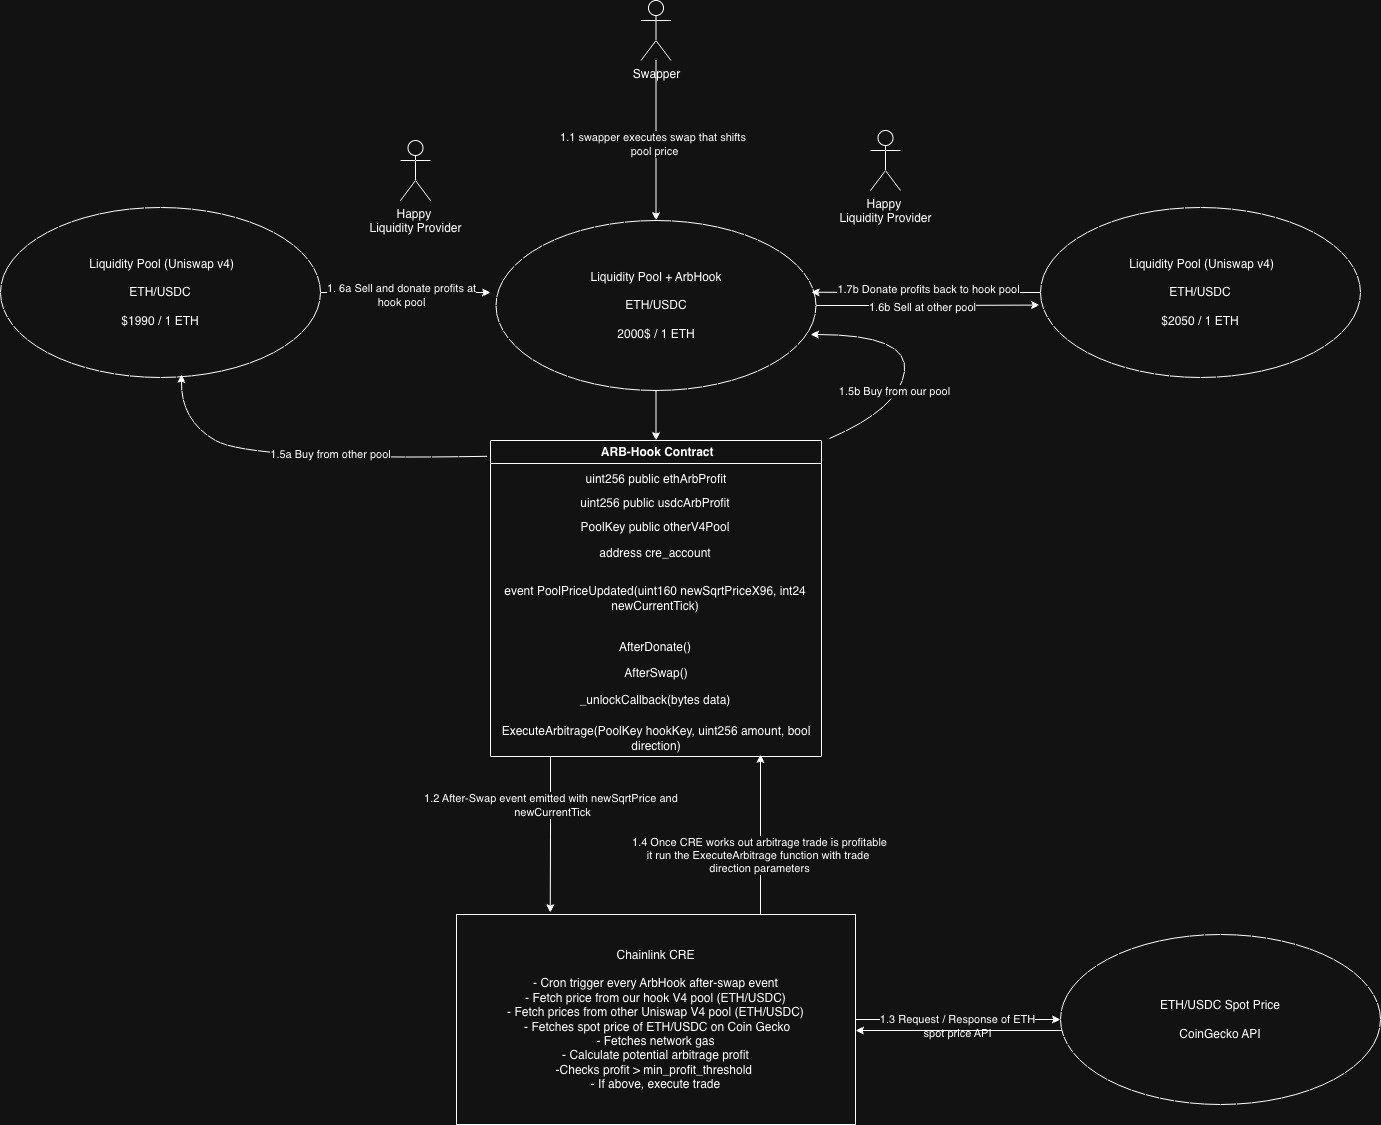
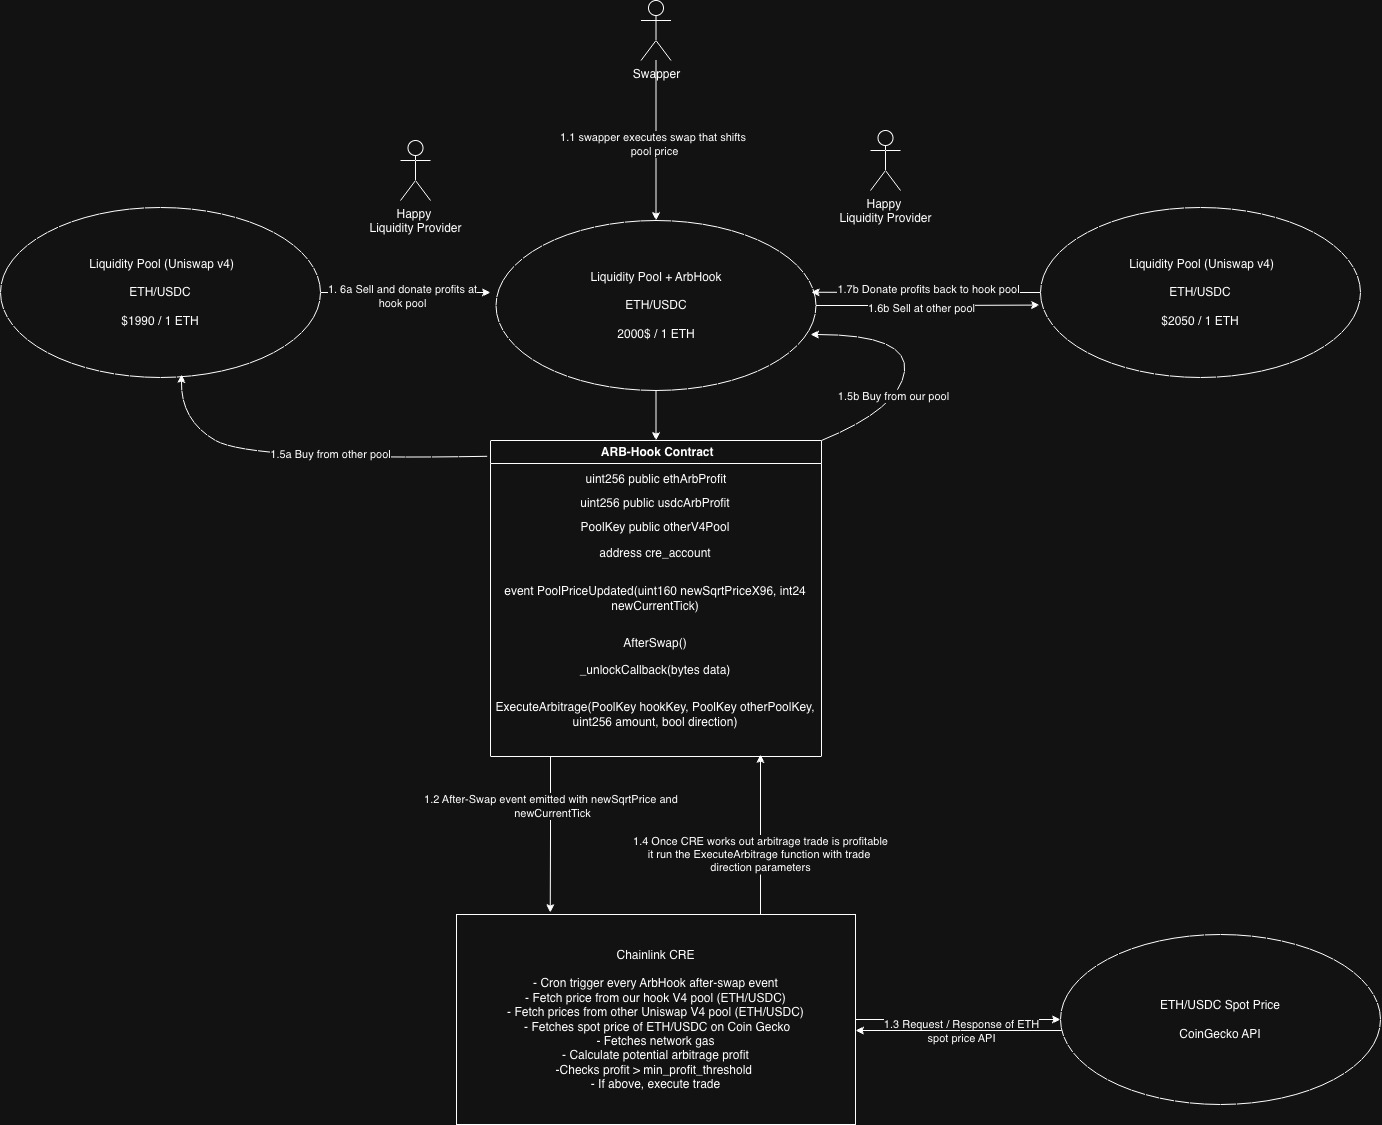
updated readMe and diagram

diff --git a/README.md b/README.md
@@ -4,6 +4,24 @@
 
 Welcome to ArbHook, which is my submission project for the Chainlink Convergence hackathon 2026.
 
+## Links
+
+**Chainlink CRE Code:**
+
+- [Arbitrage Logic (lib folder)](./cre/pool2poolArbitrage/lib/)
+  - `calculateTradeProfit.ts` - Arbitrage detection and decision-making
+  - `getETHMarketPrice.ts` - External API integration (ETH/USDC Spot Price / CoinGecko)
+  - `poolFunctions.ts` - Uniswap V4 pool price and state fetching
+
+**Hook Contract:**
+
+- [ArbHook.sol](./hook/src/ArbHook.sol)
+- [ArbHook Tests](./hook/test/)
+
+Submission Demo:
+
+Presentation Slides: https://www.canva.com/design/DAHCDj7jpXM/v6yyKpWV2czkFv5Gh_g_sA/edit?utm_content=DAHCDj7jpXM&utm_campaign=designshare&utm_medium=link2&utm_source=sharebutton
+
 ## Problems being solved
 
 Firstly I would like to mention two problems that I noticed that this combination of Uniswap v4 hooks and Chainlink CRE solves:
@@ -28,7 +46,7 @@ The ARB Hook and Chainlink CRE work together. The CRE listens to every afterSwap
 
     - If above, executes the trade.
 
-Once CRE determines which pool to buy from and which to sell into, it writes to the hook contract `executeArbitrage()` function with the amount and direction of the trade. Inside the function the contract calls `poolManager.unlock(data)`, which triggers the `_unlockCallback` function. Inside this callback, the contract swaps on both pools, takes the profit, and donates it back to the hook pool's LPs in a single atomic transaction thanks to Uniswap V4's flash accounting.
+Once CRE determines which pool to buy from and which to sell into, it writes to the hook contract `executeArbitrage()` function with the amount and direction of the trade. Inside the function the contract calls `poolManager.unlock(data)`, which triggers the `unlockCallback` function. Inside this callback, the contract swaps on both pools, takes the profit, and donates it back to the hook pool's LPs in a single atomic transaction thanks to Uniswap V4's flash accounting.
 
 ## Architecture Diagram
 
@@ -38,24 +56,18 @@ Once CRE determines which pool to buy from and which to sell into, it writes to 
 
 Tests mainly cover the ARBHook contract and involve the following:
 
-    - Testing the afterSwap function, ensuring the event is emitted with the correct pool state values.
+1. Testing the `afterSwap` function, ensuring the event is emitted with the correct pool state values.
 
-    - Testing the afterDonate function, which is triggered when CRE performs the arbitrage and donates profit back to the hook pool. This verifies that all bookkeeping in the state variables is recorded correctly.
+2. Testing the `executeArbitrage` function inside the `FromHookArbitrage.t.sol` file, where the direction of the trade is buying from the hook pool and selling at the other pool. The test simulates two pools at different prices where the hook pool gets dumped on, creating cheap enough ETH to simulate profitable arbitrage.
 
-    - Testing the executeArbitrage function, when the price diverges from the hook pool, this function performs the arbitrage and donate back to pool. This test verifies trade has been successful alongside the donate bookeeping after.
+3. Testing the `executeArbitrage` function inside the `FromOtherPoolArbitrage.t.sol` file, where the direction of the trade is buying from the other pool and selling at our hook pool. The test dumps the other pool's price just before the trade to simulate profitable arbitrage.
 
 ## Future Roadmap
 
 I would like to continue this project after the hackathon. I believe it has the potential to become a top pool within the Uniswap ecosystem, however it has a long way to go from MVP to mainnet.
 
-Currently the hook alongside CRE only monitors one other pool. In a production version, I would like it to monitor multiple pools to capture more arbitrage opportunities, once that is done. I would like to start adding pools from Uniswap v3. Along side aribtrage stratagies for different token pairs not just ETH/USDC
+Currently the hook alongside CRE only monitors one other pool. In a production version, I would like it to monitor multiple pools to capture more arbitrage opportunities, once that is done. I would like to start adding pools from Uniswap v3. Along side arbitrage strategies for different token pairs not just ETH/USDC
 
-Another consideration is the handling of in-range vs out-of-range positions within concentrated liquidity. It isn't fair that LPs who are out of range to receive arbitrage profits when they aren't actively providing liquidity. Using CRE to monitor LP positions off-chain would be the ideal approach, since handling this logic within the hook itself is possible but would be gas intensive for users swapping through the pool.
+Another consideration is the handling of in-range vs out-of-range positions within concentrated liquidity. It isn't fair that LPs who are out-of-range to receive arbitrage profits when they aren't actively providing liquidity. Using CRE to monitor LP positions off-chain would be the ideal approach, since handling this logic within the hook itself is possible but would be gas intensive for users swapping through the pool.
 
-Building a live frontend for hook, so users can go in create pools and swap. Even maybe think of a mechanic to reward swapper who cause price to flucciaiate
-
-## Links
-
-1. Presentation Slides:
-
-2. Submission Demo:
+Building a live frontend for this dex/hook, so users can go in create pools and swap. Even maybe think of a mechanic to reward swappers who cause price to fluctuate so the arbitrage trade can happen. So the whole eco-system is rewarded for participating.
